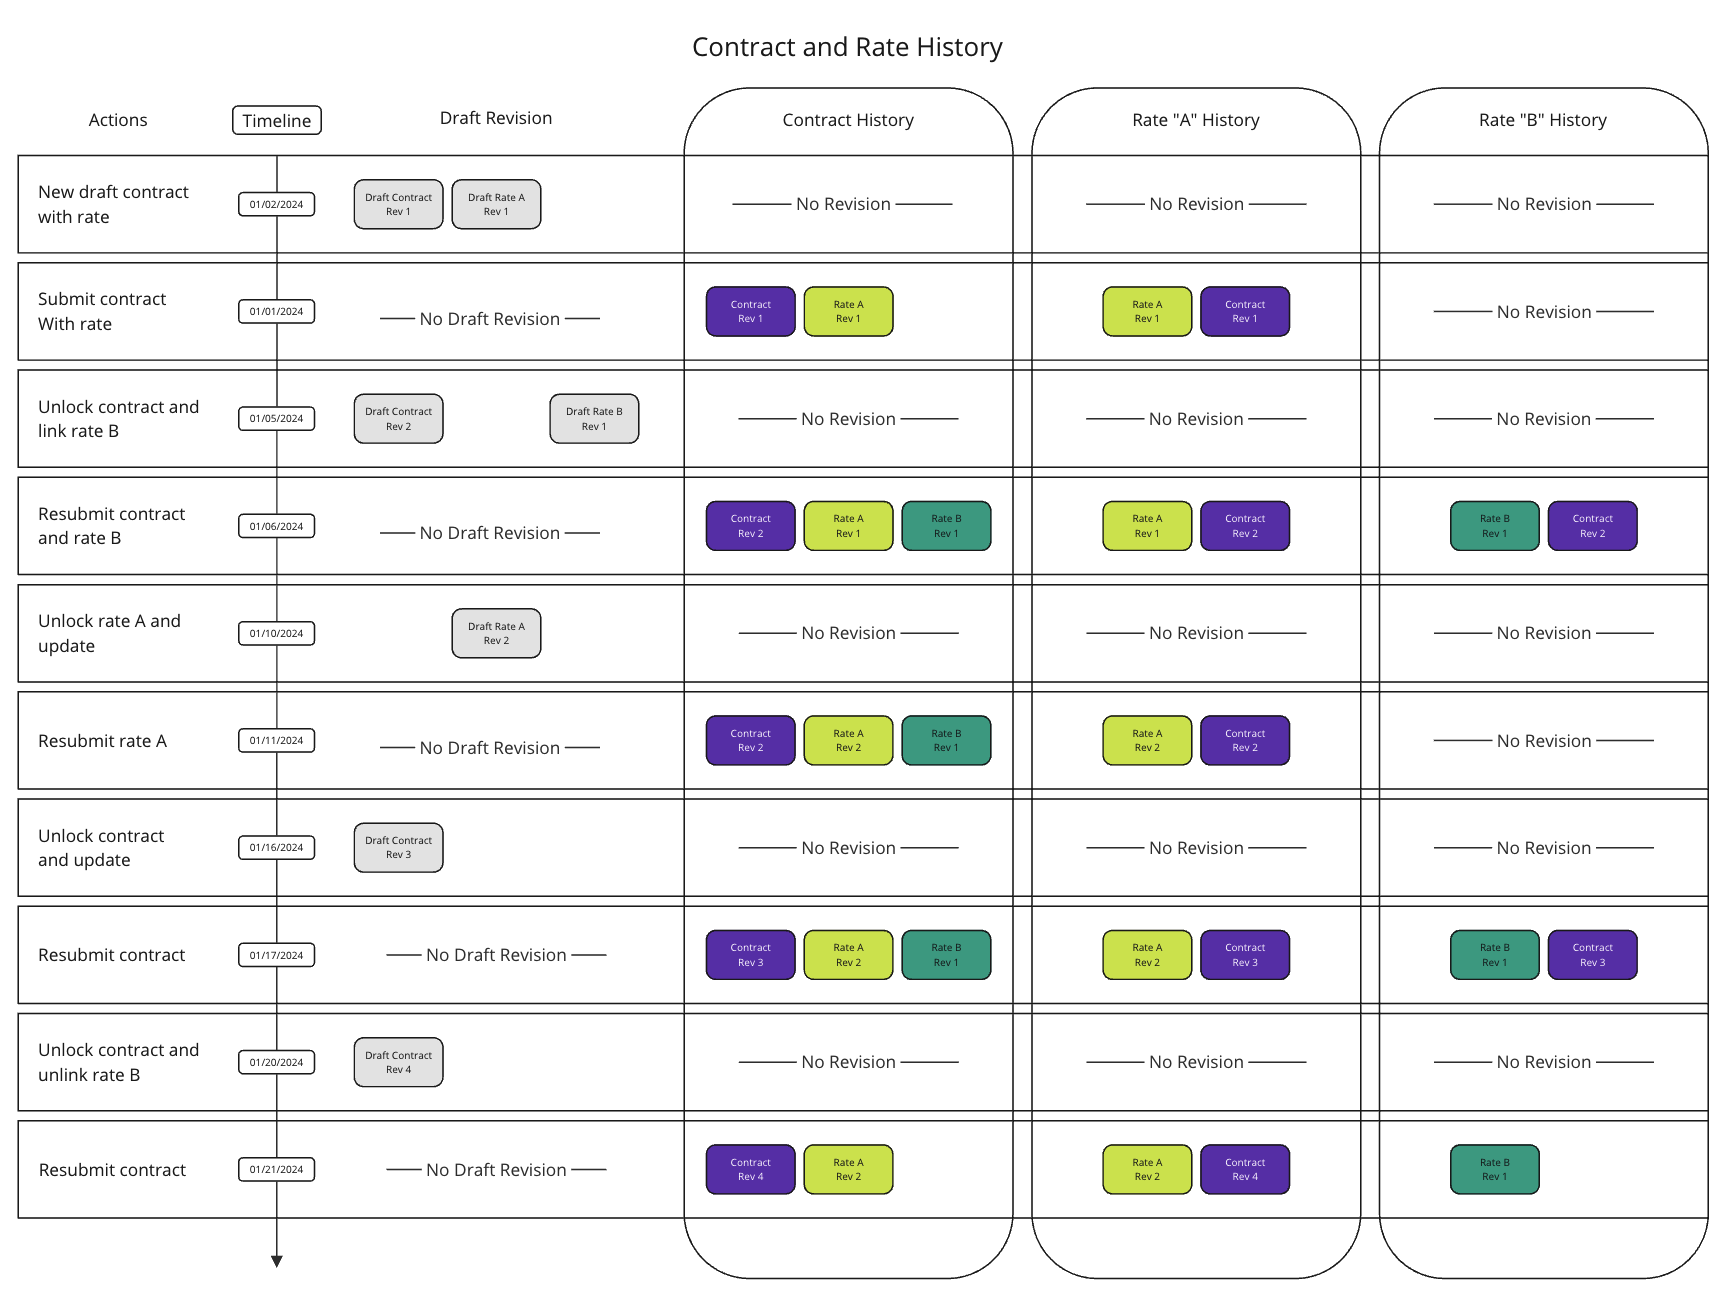
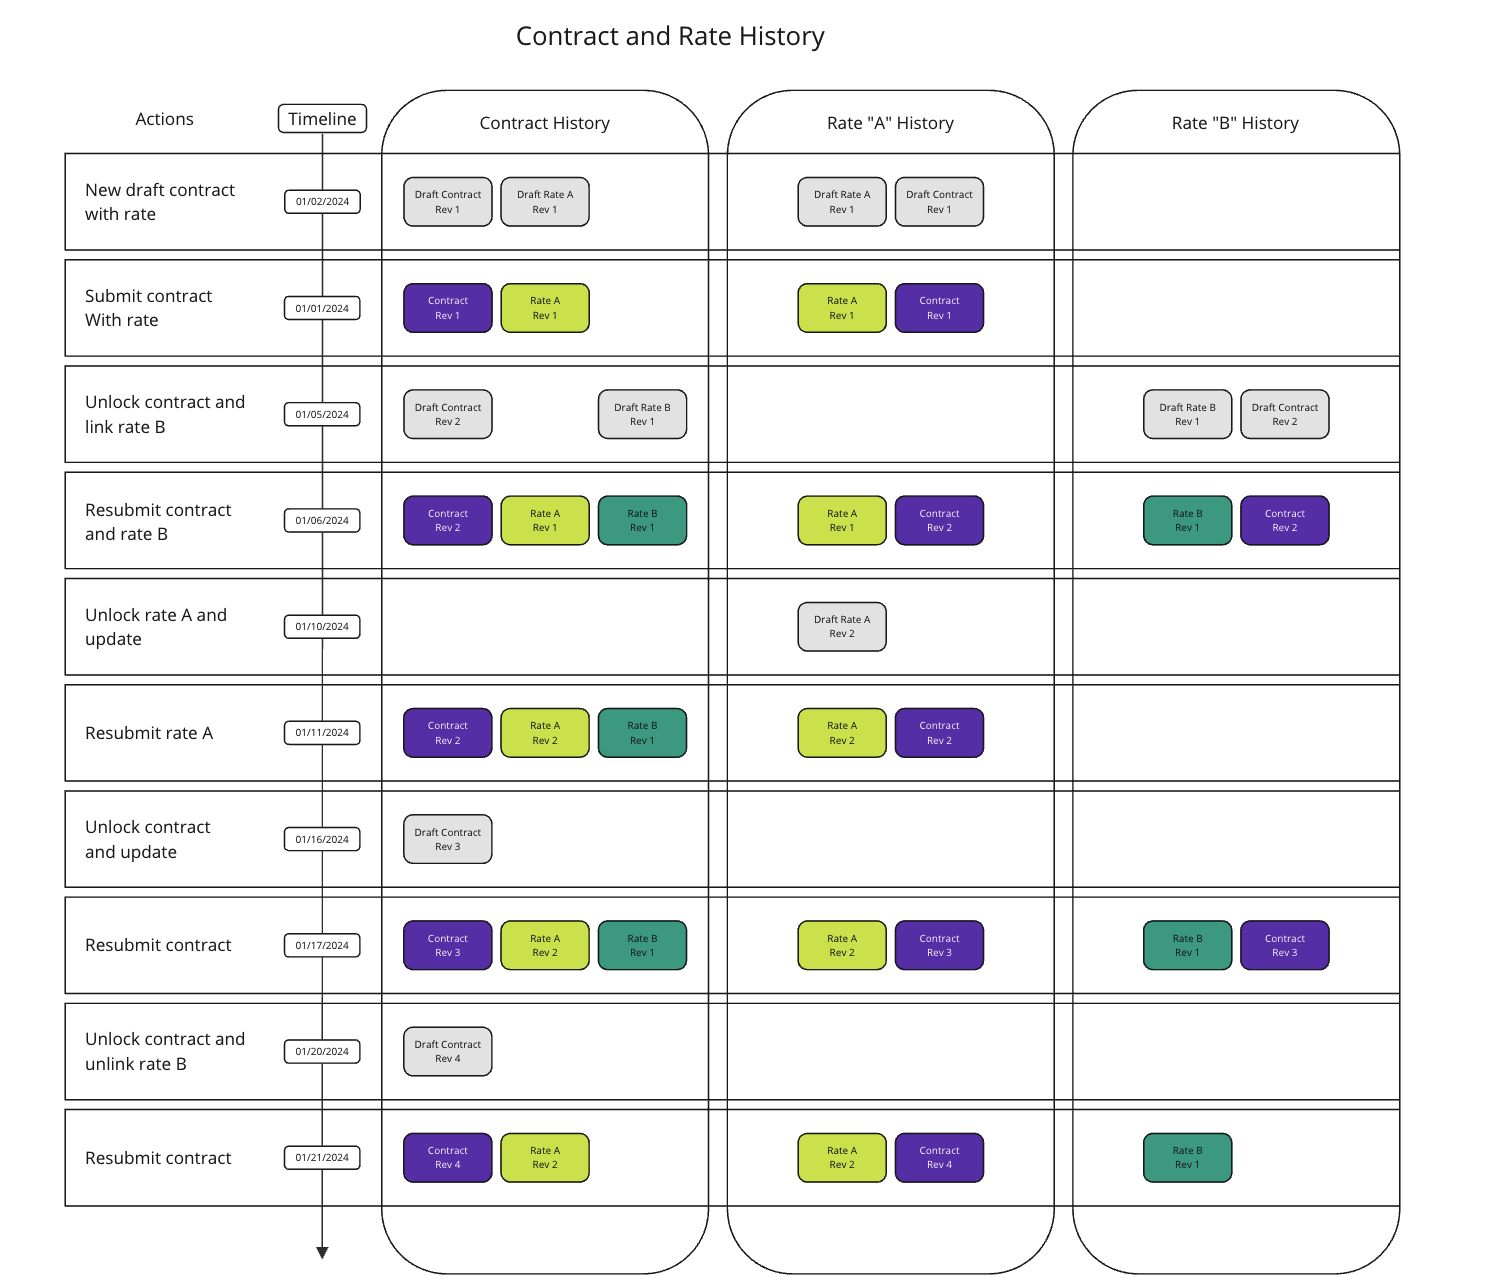
Update diagrams and add note for history diagram.

diff --git a/docs/technical-design/contract-rate-change-history.md b/docs/technical-design/contract-rate-change-history.md
@@ -13,6 +13,8 @@ Change history is the feature of MC-Review where the application stores full cop
 [Miro link](https://miro.com/app/board/o9J_lS5oLDk=/?moveToWidget=3458764574794469060&cot=14)\
 ![contract-and-rate-history-diagram](../../.images/contract-and-rate-history-diagram.png)
 
+In this diagram when a contract or rate is unlocked, a new draft revision version is created from the previous submitted revision. When submitted the draft revision is turned into a submitted revision that is then a part of the revision history.
+
 ### Reading history
 [Miro Link](https://miro.com/app/board/o9J_lS5oLDk=/?moveToWidget=3458764574799194467&cot=14)\
 ![reading-contract-history](../../.images/read-contract-and-rate-history-diagram.png)
